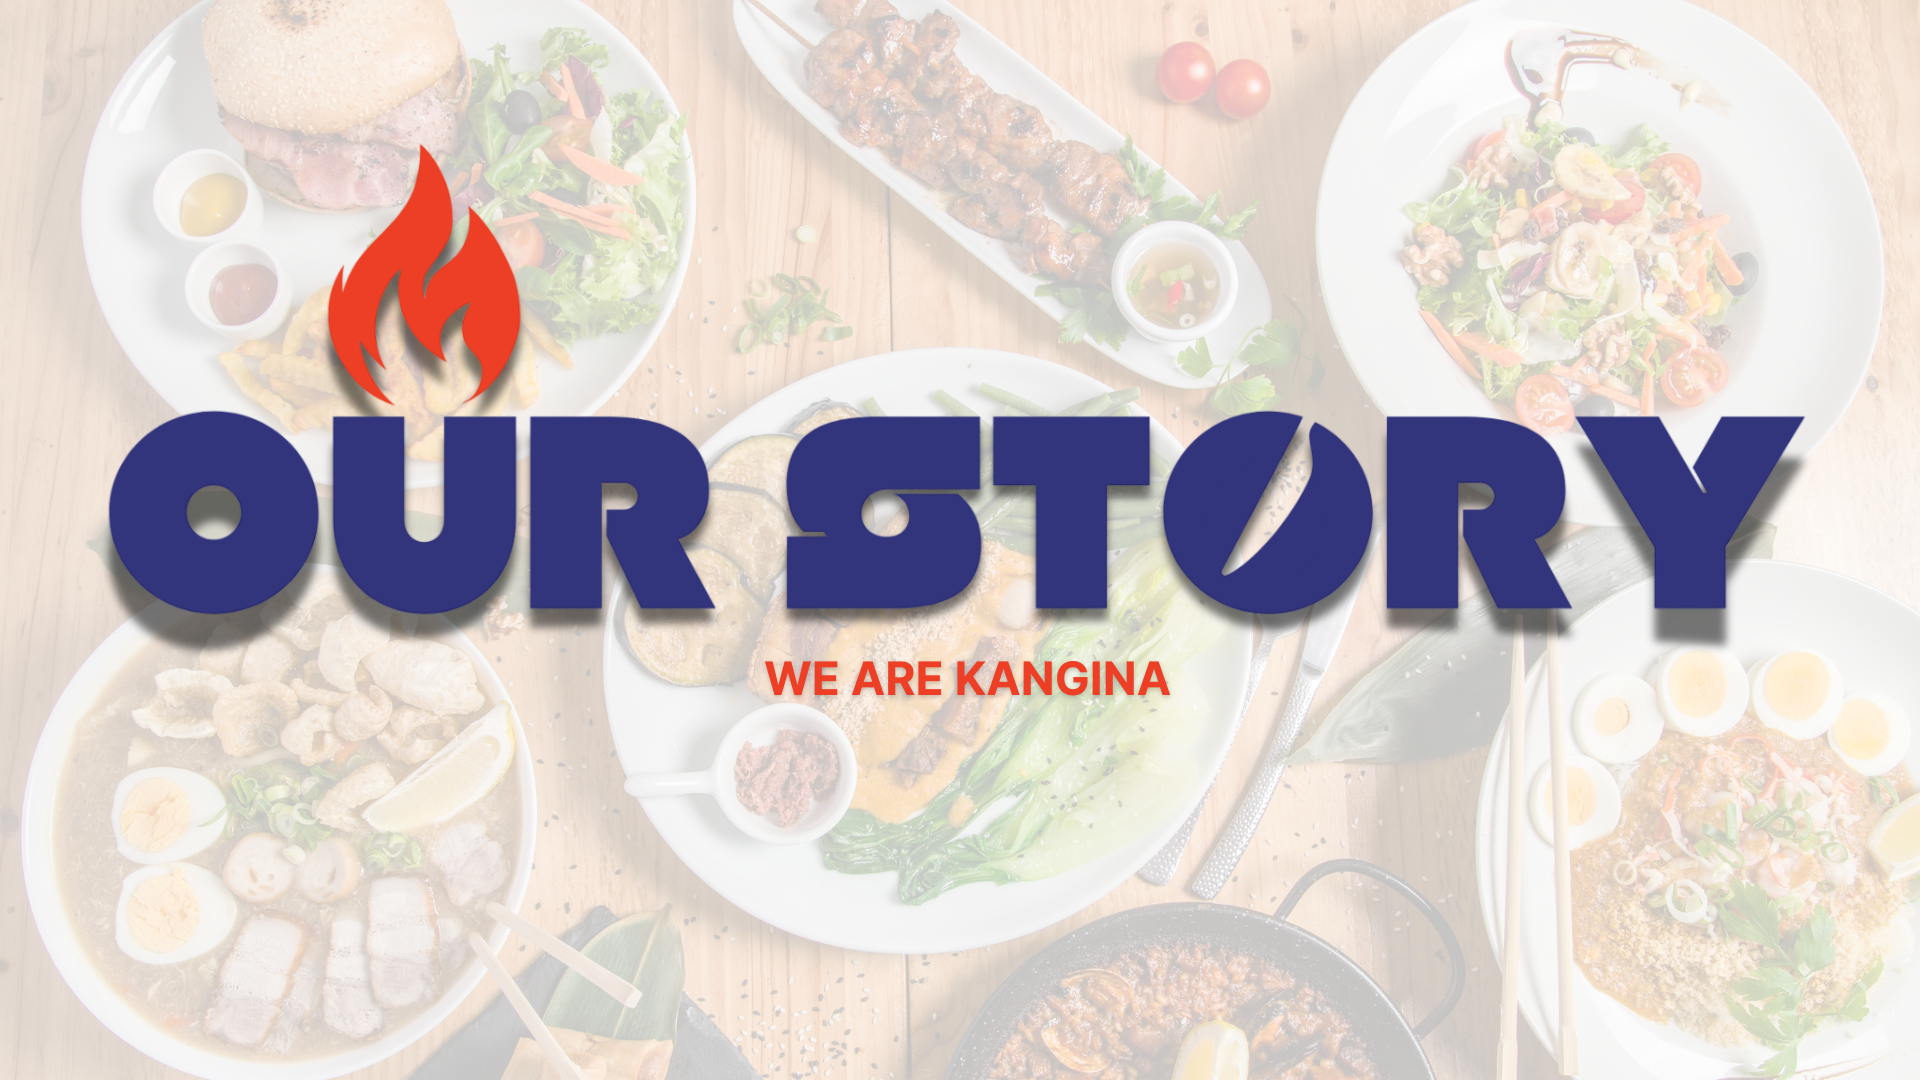
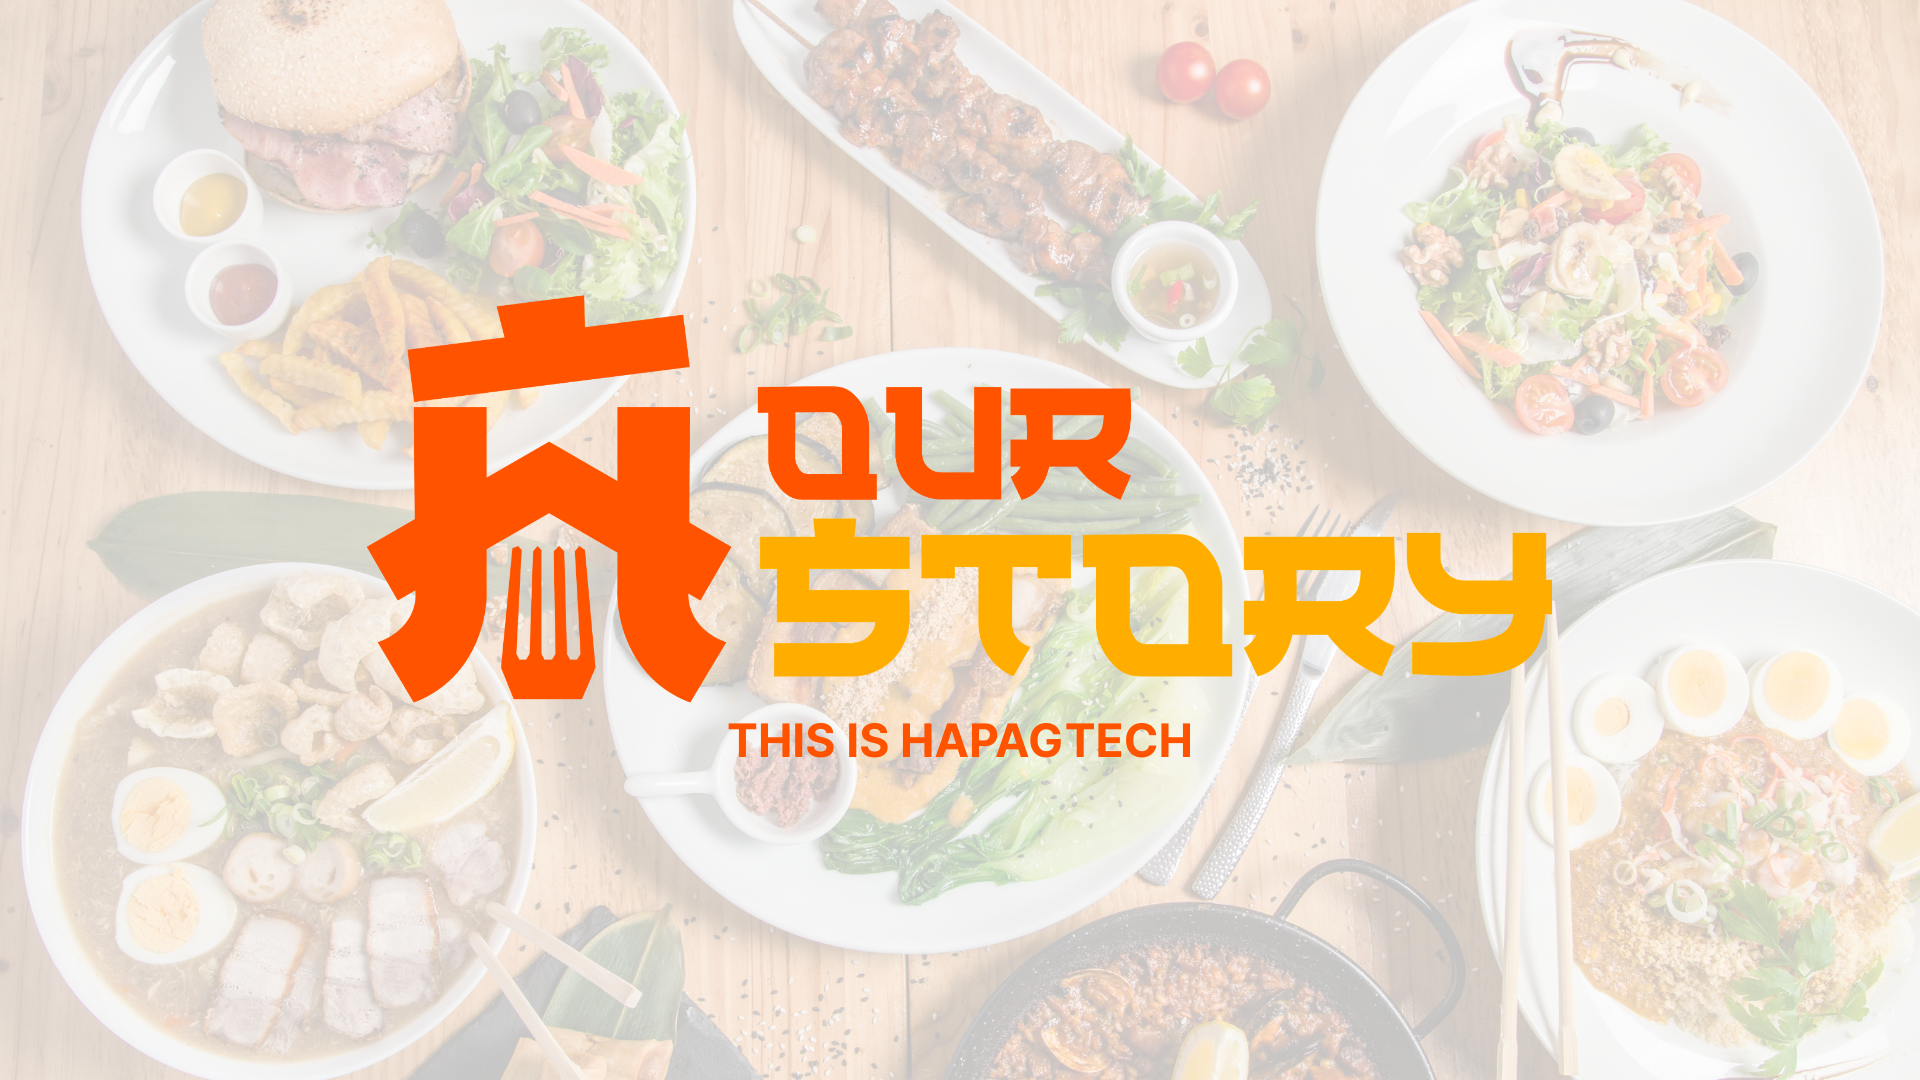
Final Landing Page

Changed region(s): [[0.0312, 0.1222, 0.9375, 0.7028]]

diff --git a/frontend/src/pages/PrivacyPolicy.tsx b/frontend/src/pages/PrivacyPolicy.tsx
@@ -8,40 +8,40 @@ const PrivacyPolicy = () => {
   }, [])
 
   return (
-    <div className="page-shell bg-white text-[#32347C] min-h-screen">
+    <div className="page-shell bg-white text-[#FF5300] min-h-screen">
       <Header />
       <main className="mx-auto max-w-4xl px-6 py-24 md:py-28">
             <div className="mb-8">
               <p className="text-sm font-semibold uppercase tracking-[0.25em] text-[#FF5300]">Legal</p>
               <h1 className="mt-3 text-4xl font-extrabold">Privacy Policy</h1>
             </div>
-            <div className="rounded-3xl border border-[#32347C]/10 bg-white p-6 shadow-sm md:p-8 space-y-5 leading-7 text-[#525252]">
-              <p className="text-sm font-semibold text-[#32347C]">Last updated: May 7, 2026</p>
+            <div className="rounded-3xl border border-[#FF5300]/10 bg-white p-6 shadow-sm md:p-8 space-y-5 leading-7 text-[#525252]">
+              <p className="text-sm font-semibold text-[#FF5300]">Last updated: May 7, 2026</p>
               <p>
-                Kangina (“we”, “our”, “us”) is committed to protecting your privacy. This Privacy Policy explains how we collect, use, disclose, and safeguard your information when you visit our website and use our services.
+                Kangina ("we", "our", "us") is committed to protecting your privacy. This Privacy Policy explains how we collect, use, disclose, and safeguard your information when you visit our website and use our services.
               </p>
               <section>
-                <h3 className="mb-2 text-lg font-semibold text-[#32347C]">Information We Collect</h3>
+                <h3 className="mb-2 text-lg font-semibold text-[#FF5300]">Information We Collect</h3>
                 <p>We may collect personal information you provide directly (e.g., name, email, shipping address), payment information used to process orders, and usage data (e.g., pages visited, products viewed).</p>
               </section>
               <section>
-                <h3 className="mb-2 text-lg font-semibold text-[#32347C]">How We Use Your Information</h3>
+                <h3 className="mb-2 text-lg font-semibold text-[#FF5300]\">How We Use Your Information</h3>
                 <p>We use information to provide, maintain and improve our services, process orders, communicate with you, and personalize your experience. We may also use data for analytics and fraud prevention.</p>
               </section>
               <section>
-                <h3 className="mb-2 text-lg font-semibold text-[#32347C]">Sharing & Disclosure</h3>
+                <h3 className="mb-2 text-lg font-semibold text-[#FF5300]\">Sharing & Disclosure</h3>
                 <p>We do not sell your personal information. We may share data with service providers (payment processors, shipping partners) and when required by law.</p>
               </section>
               <section>
-                <h3 className="mb-2 text-lg font-semibold text-[#32347C]">Your Choices</h3>
+                <h3 className="mb-2 text-lg font-semibold text-[#FF5300]\">Your Choices</h3>
                 <p>You may access, correct, or delete your personal information by contacting us. You can opt out of marketing communications at any time.</p>
               </section>
               <section>
-                <h3 className="mb-2 text-lg font-semibold text-[#32347C]">Security</h3>
+                <h3 className="mb-2 text-lg font-semibold text-[#FF5300]\">Security</h3>
                 <p>We implement reasonable security measures to protect your information, but no system is completely secure.</p>
               </section>
               <section>
-                <h3 className="mb-2 text-lg font-semibold text-[#32347C]">Contact Us</h3>
+                <h3 className="mb-2 text-lg font-semibold text-[#FF5300]\">Contact Us</h3>
                 <p>If you have questions about this policy, contact us at kangina.ph@domain.com.</p>
               </section>
             </div>

diff --git a/frontend/src/pages/TermsAndConditions.tsx b/frontend/src/pages/TermsAndConditions.tsx
@@ -8,41 +8,41 @@ const TermsAndConditions = () => {
   }, [])
 
   return (
-    <div className="page-shell bg-white text-[#32347C] min-h-screen">
+    <div className="page-shell bg-white text-[#FF5300] min-h-screen">
       <Header />
       <main className="mx-auto max-w-4xl px-6 py-24 md:py-28">
             <div className="mb-8">
               <p className="text-sm font-semibold uppercase tracking-[0.25em] text-[#FF5300]">Legal</p>
               <h1 className="mt-3 text-4xl font-extrabold">Terms & Conditions</h1>
             </div>
-            <div className="rounded-3xl border border-[#32347C]/10 bg-white p-6 shadow-sm md:p-8 space-y-5 leading-7 text-[#525252]">
-              <p className="text-sm font-semibold text-[#32347C]">Last updated: May 7, 2026</p>
+            <div className="rounded-3xl border border-[#FF5300]/10 bg-white p-6 shadow-sm md:p-8 space-y-5 leading-7 text-[#525252]">
+              <p className="text-sm font-semibold text-[#FF5300]\">Last updated: May 7, 2026</p>
               <section>
-                <h3 className="mb-2 text-lg font-semibold text-[#32347C]">Acceptance of Terms</h3>
+                <h3 className="mb-2 text-lg font-semibold text-[#FF5300]\">Acceptance of Terms</h3>
                 <p>By using Kangina's website and services, you agree to these Terms and any updates. Please read them carefully.</p>
               </section>
               <section>
-                <h3 className="mb-2 text-lg font-semibold text-[#32347C]">Services</h3>
+                <h3 className="mb-2 text-lg font-semibold text-[#FF5300]">Services</h3>
                 <p>We provide online ordering and delivery services for prepared food items. Availability may vary by location.</p>
               </section>
               <section>
-                <h3 className="mb-2 text-lg font-semibold text-[#32347C]">Orders & Payments</h3>
+                <h3 className="mb-2 text-lg font-semibold text-[#FF5300]">Orders & Payments</h3>
                 <p>Prices and availability are subject to change. Payment must be authorized when placing an order. Refunds and cancellations are handled per our refund policy.</p>
               </section>
               <section>
-                <h3 className="mb-2 text-lg font-semibold text-[#32347C]">User Responsibilities</h3>
+                <h3 className="mb-2 text-lg font-semibold text-[#FF5300]">User Responsibilities</h3>
                 <p>Users must provide accurate information and comply with applicable laws when using our services.</p>
               </section>
               <section>
-                <h3 className="mb-2 text-lg font-semibold text-[#32347C]">Limitation of Liability</h3>
+                <h3 className="mb-2 text-lg font-semibold text-[#FF5300]">Limitation of Liability</h3>
                 <p>To the fullest extent permitted by law, Kangina is not liable for indirect or consequential damages arising from use of the service.</p>
               </section>
               <section>
-                <h3 className="mb-2 text-lg font-semibold text-[#32347C]">Governing Law</h3>
+                <h3 className="mb-2 text-lg font-semibold text-[#FF5300]">Governing Law</h3>
                 <p>These Terms are governed by the laws of the Philippines.</p>
               </section>
               <section>
-                <h3 className="mb-2 text-lg font-semibold text-[#32347C]">Contact</h3>
+                <h3 className="mb-2 text-lg font-semibold text-[#FF5300]">Contact</h3>
                 <p>Questions about these Terms: kangina.ph@domain.com</p>
               </section>
             </div>

diff --git a/frontend/src/pages/landing/PopularNow.tsx b/frontend/src/pages/landing/PopularNow.tsx
@@ -201,43 +201,40 @@ const PopularNow: React.FC = () => {
         </div>
 
         <div className="relative">
+          {/* Floating arrows outside cards */}
           <button
-            type="button"
             onClick={prevSlide}
-            className="absolute left-2 top-1/2 z-10 -translate-y-1/2 text-[#2D2D2D] opacity-90 hover:opacity-100 transition-opacity"
-            aria-label="Previous slide"
+            className="absolute -left-12 top-1/2 -translate-y-1/2 z-10 text-[#2D2D2D] hover:opacity-100 transition-opacity"
           >
-            <ChevronLeft size={32} />
+            <ChevronLeft size={40} />
           </button>
           <button
-            type="button"
             onClick={nextSlide}
-            className="absolute right-2 top-1/2 z-10 -translate-y-1/2 text-[#2D2D2D] opacity-90 hover:opacity-100 transition-opacity"
-            aria-label="Next slide"
+            className="absolute -right-12 top-1/2 -translate-y-1/2 z-10 text-[#2D2D2D] hover:opacity-100 transition-opacity"
           >
-            <ChevronRight size={32} />
+            <ChevronRight size={40} />
           </button>
-          <div className="overflow-hidden">
-            <div
-              ref={slideContainerRef}
-              className="flex transition-transform duration-700 ease-in-out"
-              style={{ transform: `translateX(-${currentIndex * 100}%)` }}
-              onMouseEnter={stopAutoSlide}
-              onMouseLeave={startAutoSlide}
-            >
-              {slides.map((group, groupIndex) => (
-                <div key={groupIndex} className="flex w-full flex-shrink-0">
-                  {group.map((product, index) => (
-                    <div key={product.id} className="w-1/4 px-2 sm:w-1/2 md:w-1/4">
-                      <ItemCard product={product} index={index} />
-                    </div>
-                  ))}
-                </div>
-              ))}
-            </div>
+
+          <div
+            ref={slideContainerRef}
+            className="flex transition-transform duration-700 ease-in-out"
+            style={{ transform: `translateX(-${currentIndex * 100}%)` }}
+            onMouseEnter={stopAutoSlide}
+            onMouseLeave={startAutoSlide}
+          >
+            {slides.map((group, groupIndex) => (
+              <div key={groupIndex} className="flex w-full flex-shrink-0">
+                {group.map((product, index) => (
+                  <div key={product.id} className="w-1/4 px-2 sm:w-1/2 md:w-1/4">
+                    <ItemCard product={product} index={index} />
+                  </div>
+                ))}
+              </div>
+            ))}
           </div>
         </div>
 
+        {/* Optional indicator dots */}
         <div className="mt-6 flex justify-center space-x-2">
           {chunks.map((_, index) => {
             // actual index mapping
@@ -264,7 +261,7 @@ const PopularNow: React.FC = () => {
           initial={{ opacity: 0, y: 20 }}
           whileInView={{ opacity: 1, y: 0 }}
           viewport={{ once: true, amount: 0.2 }}
-          transition={{ duration: 0.5, ease: 'easeOut' }}
+          transition={{ duration: 1, ease: 'easeOut' }}
         >
           Fresh picks from the kitchen
         </motion.p>

diff --git a/frontend/src/pages/landing/Team.tsx b/frontend/src/pages/landing/Team.tsx
@@ -10,7 +10,7 @@ interface MemberCardProps {
 
 const MemberCard: React.FC<MemberCardProps> = ({ image, name, title }) => {
   return (
-    <div className="flex flex-col items-center text-center w-full max-w-xs rounded-2xl bg-white p-6 shadow-sm border border-[#32347C]/10">
+    <div className="flex flex-col items-center text-center w-full max-w-xs rounded-2xl bg-white p-6 shadow-sm border border-[#FF5300]/10">
       <div className="w-44 h-44 mb-4 rounded-full bg-white/40 p-2">
         <img 
           src={image} 
@@ -18,7 +18,7 @@ const MemberCard: React.FC<MemberCardProps> = ({ image, name, title }) => {
           className="w-full h-full object-contain"
         />
       </div>
-      <h3 className="text-[#32347C] text-xl font-semibold mb-1">{name}</h3>
+      <h3 className="text-[#FF5300] text-xl font-semibold mb-1">{name}</h3>
       <p className="text-[#525252] text-base">{title}</p>
     </div>
   );
@@ -30,11 +30,11 @@ const Team = () => {
       <div className="container mx-auto px-4">
         <div className="mx-auto mb-10 max-w-2xl text-center">
           <p className="text-sm font-semibold uppercase tracking-[0.28em] text-[#FF5300]">Our people</p>
-          <h2 className="mt-3 text-4xl font-extrabold text-[#32347C]">Meet the Team</h2>
+          <h2 className="mt-3 text-4xl font-extrabold text-[#FF5300]">Meet the Team</h2>
           <p className="mt-4 text-base text-[#525252]">A small crew with a shared taste for bold ideas and polished execution.</p>
         </div>
 
-        <div className="flex flex-col items-center gap-6 p-4 md:p-6 md:flex-row md:items-stretch md:justify-center md:gap-8">
+        <div className="flex flex-col items-center gap-6 p-4 md:p-6 md:flex-row md:items-stretch md:justify-center md:gap-8 flex-wrap">
           <MemberCard 
             image={Mark} 
             name="Mark Vincent Limpahan" 
@@ -44,6 +44,11 @@ const Team = () => {
             image={Roxanne} 
             name="Roxanne Locsin" 
             title="Front-end Developer" 
+          />
+          <MemberCard 
+            image={Rhenel} 
+            name="Rhenel Jhon Sajol" 
+            title="Back-end Developer" 
           />
           <MemberCard 
             image={Rhenel} 

diff --git a/frontend/src/pages/landing/About.tsx b/frontend/src/pages/landing/About.tsx
@@ -1,6 +1,7 @@
 import { motion } from 'framer-motion';
 import Carousel from '../../components/ui/Carousel';
 import AnimatedCounter from '../../components/ui/AnimatedCounter';
+import StoryTitle from '../../assets/StoryTitle.png';
 
 const About = () => {
   return (
@@ -18,18 +19,19 @@ const About = () => {
         <motion.div
           className="w-full text-center md:text-left flex flex-col justify-center items-center md:items-start lg:max-w-[560px] lg:mx-0"
         >
-          {/* Animated Heading */}
-          <motion.h2
-            className="text-[3em] uppercase font-bold text-[#2D2D2D]"
-          >
-            We are Kangina.
-          </motion.h2>
-
+        <motion.img
+          src={StoryTitle}
+          alt="Story Title"
+          className="mb-6 md:mb-0 max-h-[12em] w-auto"
+          initial={{ opacity: 0, y: 20 }}
+          animate={{ opacity: 1, y: 0 }}
+          transition={{ duration: 0.8, ease: "easeOut" }}
+        />
           {/* Animated Paragraph */}
           <motion.p
             className="w-full max-w-[58ch] font-light text-lg mb-6 text-[#2D2D2D]/90"
           >
-            Our adventure began in a humble kitchen where we discovered that the true secret ingredient wasn't in the pantry—it was in the playful spirit of every "tarantado" who dared to break the rules. We take pride in transforming everyday ingredients into masterpieces that carry the soul of Filipino cooking, spiced up with a hint of rebellious wit.
+            Sa ating mga hapag-kainan nagsisimula ang mga kwento, mga tawanan, ideya, at koneksyong bumubuo sa bawat komunidad. At HAPAG TECH, we bring together the warmth of traditional Filipino gatherings and the dynamic spirit of modern technology to create experiences that do more than satisfy—they inspire connection, collaboration, and creativity.
           </motion.p>
 
           {/* Animated Statistics Section with Dynamic Counters */}

diff --git a/frontend/src/pages/landing/Footer.tsx b/frontend/src/pages/landing/Footer.tsx
@@ -13,15 +13,15 @@ const Footer = () => {
             <div className="mt-4 space-y-3 text-sm">
               <div className="flex items-center justify-center gap-2 md:justify-start">
                 <Phone className="h-4 w-4 shrink-0" />
-                <span>+63 997 728 9552</span>
+                <span>+63 987 654 3210</span>
               </div>
               <div className="flex items-center justify-center gap-2 md:justify-start">
                 <Mail className="h-4 w-4 shrink-0" />
-                <span>kangina.ph@domain.com</span>
+                <span>hapagtech.ph@domain.com</span>
               </div>
               <div className="flex items-start justify-center gap-2 md:justify-start">
                 <MapPin className="mt-0.5 h-4 w-4 shrink-0" />
-                <span>45th 21st Bldg. 02 St. Nazareth, CDO</span>
+                <span>123 Ken Street, Barangay 456, Cagayan de Oro City</span>
               </div>
             </div>
           </div>
@@ -62,7 +62,7 @@ const Footer = () => {
           </div>
 
           <div className="md:text-right">
-            <p className="text-m text-[#2D2D2D]/85">© 2025 — 2026 Kangina. All rights reserved.</p>
+            <p className="text-m text-[#2D2D2D]/85">© 2025 — 2026 HapagTech. All rights reserved.</p>
           </div>
         </div>
       </div>

diff --git a/frontend/src/components/layout/Navbar.tsx b/frontend/src/components/layout/Navbar.tsx
@@ -14,7 +14,7 @@ const Navbar: React.FC = () => {
   const navigate = useNavigate()
 
   useEffect(() => {
-    const pendingTarget = sessionStorage.getItem('kangina-scroll-target')
+    const pendingTarget = sessionStorage.getItem('hapagtech-scroll-target')
     if (!pendingTarget || location.pathname !== '/') return
 
     const targetElement = document.getElementById(pendingTarget)
@@ -26,7 +26,7 @@ const Navbar: React.FC = () => {
       top: elementPosition + window.pageYOffset - headerOffset,
       behavior: 'smooth',
     })
-    sessionStorage.removeItem('kangina-scroll-target')
+    sessionStorage.removeItem('hapagtech-scroll-target')
   }, [location.pathname])
 
   const handleDesktopNavigation = (target: string) => {
@@ -43,7 +43,7 @@ const Navbar: React.FC = () => {
       return
     }
 
-    sessionStorage.setItem('kangina-scroll-target', target)
+    sessionStorage.setItem('hapagtech-scroll-target', target)
     navigate('/')
   }
 

diff --git a/frontend/src/pages/landing/LandingPage.tsx b/frontend/src/pages/landing/LandingPage.tsx
@@ -9,7 +9,7 @@ import { motion } from "framer-motion";
 
 const Home = () => {
   useEffect(() => {
-    const target = sessionStorage.getItem('kangina-scroll-target')
+    const target = sessionStorage.getItem('hapagtech-scroll-target')
     if (!target) return
 
     const element = document.getElementById(target)
@@ -21,7 +21,7 @@ const Home = () => {
       top: elementPosition + window.pageYOffset - headerOffset,
       behavior: 'smooth',
     })
-    sessionStorage.removeItem('kangina-scroll-target')
+    sessionStorage.removeItem('hapagtech-scroll-target')
   }, [])
 
   return (

diff --git a/frontend/src/pages/landing/Hero.tsx b/frontend/src/pages/landing/Hero.tsx
@@ -171,7 +171,7 @@ export const Hero = () => {
           animate={{ opacity: 1, y: 0 }}
           transition={{ delay: 0.3, duration: 1 }}
         >
-          The wildest culinary adventure crafted by the one and only Cooking ng ina mo! Be ready as you're about to embark on a flavor trip that'll have you shouting "Kangina, kain na!"
+        From the warmth of Filipino salu-salo to the pulse of modern technology, HAPAG TECH creates experiences worth sharing at every hapag-kainan.
         </motion.p>
 
         <motion.div

diff --git a/frontend/index.html b/frontend/index.html
@@ -2,9 +2,9 @@
 <html lang="en">
   <head>
     <meta charset="UTF-8" />
-    <link rel="icon" type="image/png" href="/Vector.svg" />
+    <link rel="icon" type="image/png" href="/WebLogo.svg" />
     <meta name="viewport" content="width=device-width, initial-scale=1.0" />
-    <title>KangIna</title>
+    <title>HapagTech</title>
   </head>
   <body>
     <div id="root"></div>

diff --git a/frontend/src/components/CookieConsent.tsx b/frontend/src/components/CookieConsent.tsx
@@ -1,7 +1,7 @@
 import React, { useEffect, useState } from 'react'
 import { Link } from 'react-router-dom'
 
-const STORAGE_KEY = 'kangina_cookie_consent'
+const STORAGE_KEY = 'hapagtech_cookie_consent'
 
 const CookieConsent: React.FC = () => {
   const [accepted, setAccepted] = useState<boolean | null>(null)
